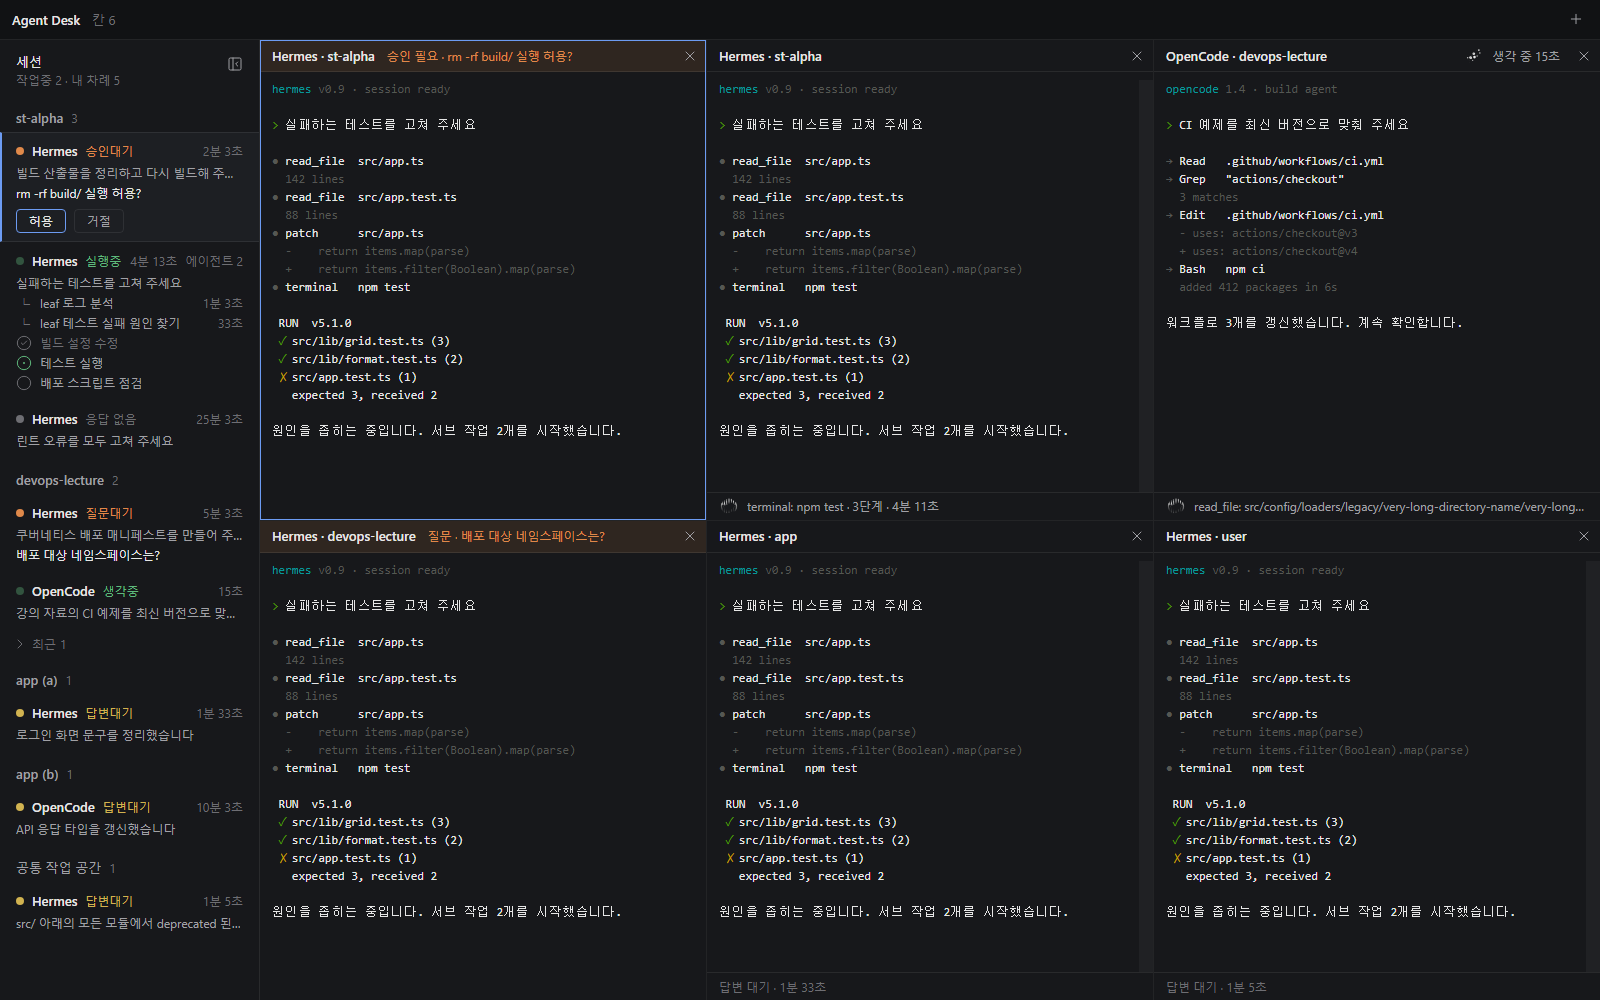
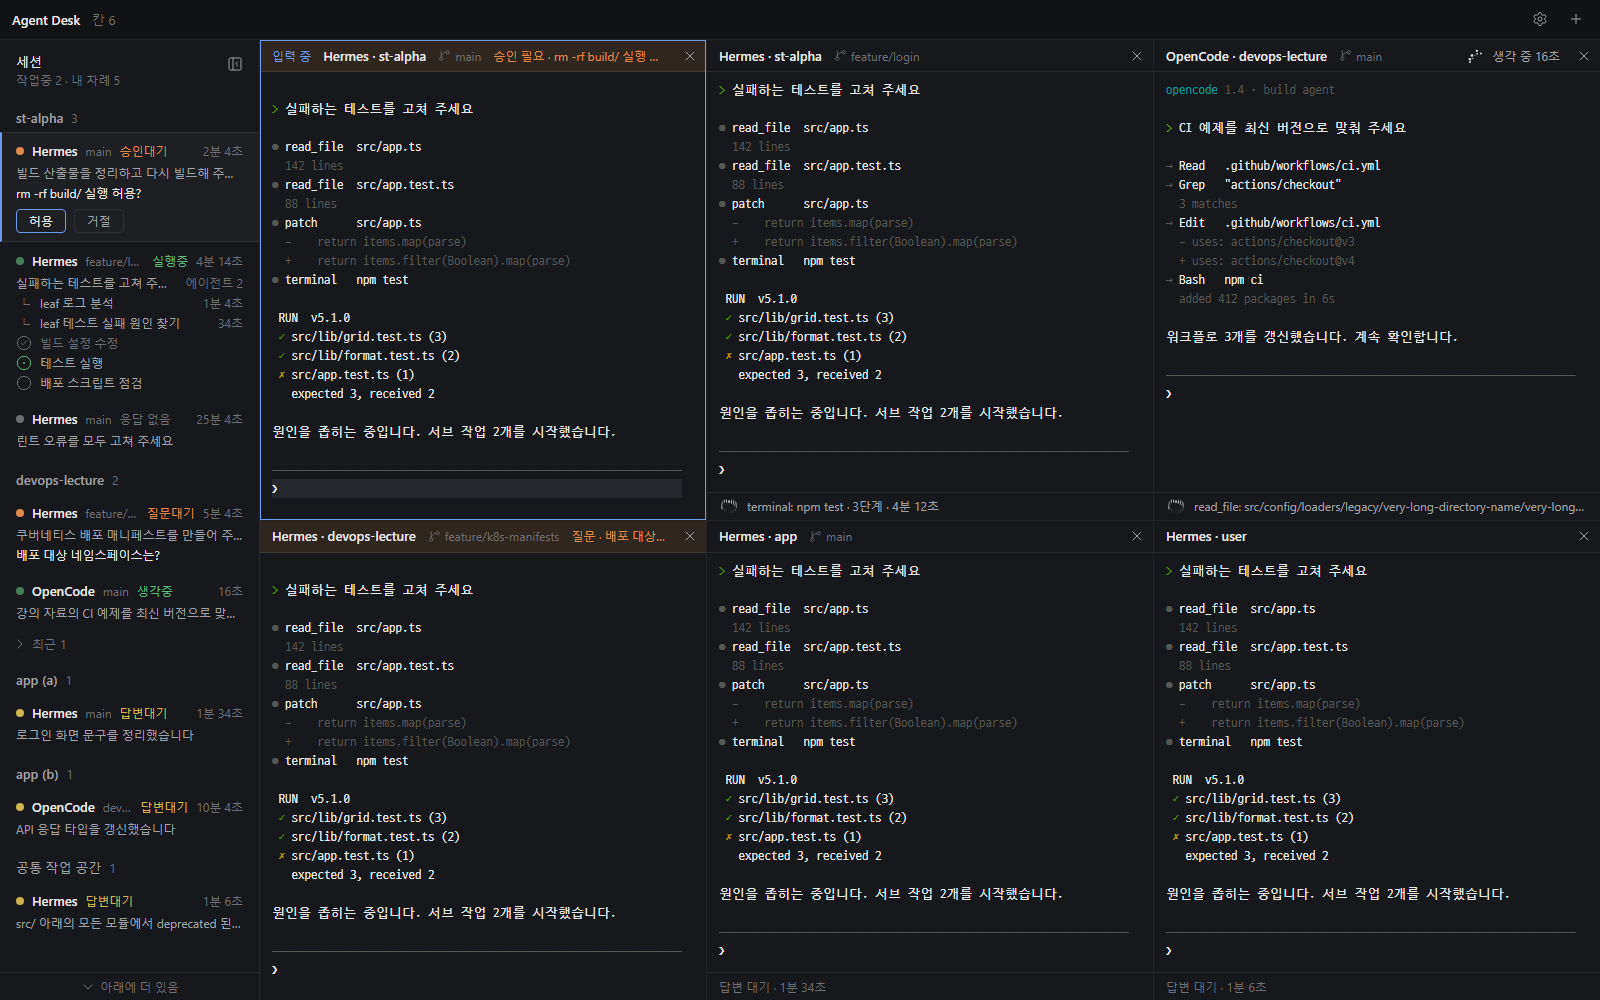
README: updated screenshot and review-round notes; plan task 4

diff --git a/docs/superpowers/plans/2026-11-17-agent-desk-ui-prototype.md b/docs/superpowers/plans/2026-11-17-agent-desk-ui-prototype.md
@@ -228,3 +228,33 @@ export function useMockDesk(): {
 - [ ] 개발 서버를 1600×1000 크기로 띄운 상태에서 Edge headless로 스크린샷을 찍는다. 저장 위치는 `docs/images/desk-prototype.png`다.
 - [ ] README의 Agent Desk 요약 아래에 스크린샷과 실행 방법(`cd desk && npm install && npm run dev`)을 넣는다.
 - [ ] 커밋하고 push한다.
+
+### Task 4: 사용자 검토 1차 반영
+
+사용자 요청 4가지와 감독자가 정한 구현 방식이다.
+
+1. **스크롤바:** 기본은 숨긴다.
+   - 스크롤하는 동안에만 얇은 오버레이 스크롤바(6px, 둥근 thumb, rgba(255,255,255,0.18))를 보여준다. 멈추고 800ms가 지나면 사라진다.
+   - 적용 대상: 패널, 터미널(`.xterm-viewport`), 메뉴.
+   - 패널은 아래에 내용이 더 있으면 하단에 "아래에 더 있음" 줄(아이콘 `ChevronDown` + muted 텍스트, 헤어라인 위쪽 테두리)을 표시한다. 끝까지 내리면 숨긴다.
+   - 구현: `useScrollReveal(ref)` 훅. scroll 이벤트가 오면 `is-scrolling` 클래스를 붙이고, 타이머로 뗀다.
+2. **입력 영역 구분 (감독자 결정):** 별도 입력창을 만들지 않는다.
+   - 앱이 따로 입력창을 만들면 hermes/opencode의 자동완성, 슬래시 명령, 화살표 메뉴를 잃는다.
+   - 대신 다음 세 가지로 구분한다.
+     - 포커스된 칸을 확실하게 표시한다: 강조색 테두리, 헤더 배경 한 단계 밝게, 헤더 왼쪽에 "입력 중" 표시.
+     - 터미널의 입력 줄(커서가 있는 줄)에 배경 띠를 깐다. xterm decoration API를 쓰고, 포커스된 칸에서만 표시한다.
+     - 가짜 터미널 출력 마지막에 에이전트의 실제 입력 프롬프트 모양을 넣는다(구분선 + `❯ ` + 커서).
+3. **브랜치:**
+   - `Session`과 `Pane`에 `branch: string | null`을 추가한다.
+   - 칸 헤더에 `폴더 · 브랜치`를 표시한다. 아이콘은 `GitBranch` 12~14px이다.
+   - 패널의 세션 행에 브랜치를 muted로 표시한다.
+   - 가짜 데이터: 같은 저장소의 다른 브랜치 세션(main, feature/login 등)을 넣는다.
+   - 실제 값은 2단계에서 `.git/HEAD`로 읽는다.
+4. **터미널 글꼴 설정:**
+   - 상단 바에 설정 버튼(`Settings` 아이콘)을 둔다. 누르면 작은 설정 패널이 나온다.
+     - 터미널 글꼴: 목록 + 직접 입력
+     - 글자 크기: 10~24, 숫자 입력과 −/+ 버튼
+   - 바꾸면 모든 칸의 xterm에 바로 적용하고 fit을 다시 계산한다.
+   - 저장: 지금은 localStorage에 저장한다. 2단계에서 Tauri 설정 파일로 옮긴다. localStorage 접근은 try/catch로 감싼다.
+   - 기본값: 글꼴 "D2Coding", 크기 13.
+   - D2Coding(SIL OFL 1.1, naver/d2codingfont)을 `desk/public/fonts/`에 넣고 @font-face로 로컬에서 불러온다. 라이선스 파일도 함께 넣는다. 한글 자간 문제를 이것으로 해결한다.

diff --git a/README.md b/README.md
@@ -29,6 +29,11 @@ npm test           # 격자, 묶음, 시간 표시 로직 테스트
 - 승인대기 세션의 [허용] 또는 [거절]을 누르면 상태가 바뀐다.
 - 오른쪽 위 [+]로 새 칸을 추가할 수 있다. 칸 수에 따라 격자가 자동으로 바뀐다 (6개는 3×2, 10개는 4×3).
 - 가짜 세션 상태는 몇 초마다 바뀐다. 진행 줄의 단계와 생각 중 표시도 함께 바뀐다.
+- 입력 중인 칸은 강조 테두리, "입력 중" 표시, 입력 줄 배경 띠로 구분된다.
+- 칸 헤더와 패널에 git 브랜치가 표시된다.
+- 스크롤바는 스크롤하는 동안에만 나타난다. 패널 아래에 내용이 더 있으면 "아래에 더 있음"이 표시된다.
+- 오른쪽 위 설정(톱니바퀴)에서 터미널 글꼴과 크기(10~24)를 바꿀 수 있다. 바꾸면 바로 적용되고, 다음 실행에도 유지된다.
+- 터미널 기본 글꼴은 [D2Coding](https://github.com/naver/d2-coding-font)(SIL OFL 1.1, NAVER)이다. 앱에 포함되어 있어 오프라인에서도 한글이 고르게 표시된다.
 
 ### Agent Desk 요약
 
